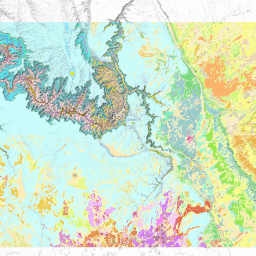
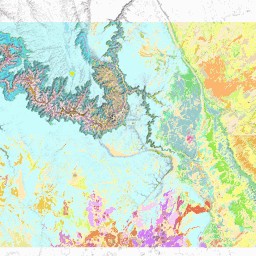
move to mapbox-hosted tiles

diff --git a/index.html b/index.html
@@ -4,10 +4,10 @@
     <meta charset="utf-8">
     <meta name="viewport" content="width=device-width, initial-scale=1">
     <title>Geology of the Grand Canyon</title>
-    <link rel="stylesheet" href="http://yui.yahooapis.com/pure/0.3.0/pure-min.css">
-    <link href="http://netdna.bootstrapcdn.com/font-awesome/4.0.1/css/font-awesome.css" rel="stylesheet">
-    <link href='//api.tiles.mapbox.com/mapbox.js/v1.5.0/mapbox.css' rel='stylesheet' />
-    <script src='//api.tiles.mapbox.com/mapbox.js/v1.5.0/mapbox.js'></script>
+    <link rel="stylesheet" href="//yui.yahooapis.com/pure/0.3.0/pure-min.css">
+    <link href="//netdna.bootstrapcdn.com/font-awesome/4.0.1/css/font-awesome.css" rel="stylesheet">
+    <link href='//api.tiles.mapbox.com/mapbox.js/v1.6.0/mapbox.css' rel='stylesheet' />
+    <script src='//api.tiles.mapbox.com/mapbox.js/v1.6.0/mapbox.js'></script>
     <link rel="stylesheet" href="style/base.css" />
     <link rel="stylesheet" href="style/descriptions.css" />
   </head>

diff --git a/scripts/gcg.js b/scripts/gcg.js
@@ -2,7 +2,7 @@ var gcg = {
   map: L.map('map', {
     center: [36.14951909060777,-111.98741912841797],
     zoom: 11,
-    maxZoom: 14,
+    maxZoom: L.Browser.retina ? 13 : 14,
     minZoom: 10,
     maxBounds: L.latLngBounds([[35.4754,-114.0326],[36.5242,-110.9592]])
   }),
@@ -38,12 +38,11 @@ var gcg = {
   }
 };
 
-L.mapbox.tileLayer('http://a.tiles.usgin.org/grand-canyon/tiles.json', {
-  retinaVersion: 'http://a.tiles.usgin.org/grand-canyon-retina/tiles.json',
+L.mapbox.tileLayer('rclark.h39e40a5', {
   detectRetina: true
 }).addTo(gcg.map);
 
-L.mapbox.gridLayer('http://a.tiles.usgin.org/grand-canyon/tiles.json')
+L.mapbox.gridLayer('rclark.h39e40a5')
   .on('mouseover', gcg.gridInteraction)
   .on('click', gcg.gridInteraction)
   .addTo(gcg.map);
